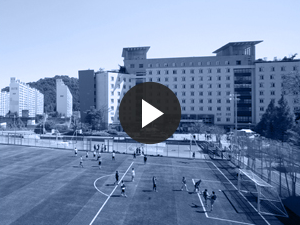
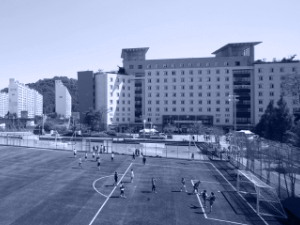
test

diff --git a/02hangukUni/css/style.css b/02hangukUni/css/style.css
@@ -27,26 +27,73 @@ nav.menu a{display: block;padding: 0 25px;line-height: 120px;font-size:18px;colo
 
 /*content*/
 #content{background:url(../images/bg.png) no-repeat;background-size:cover;}
-#content>.main_wrap{width: 1200px;height: 1800px;margin:0 auto;padding: 100px 0;position: relative;}
+#content>.main_wrap{width: 1200px;margin:0 auto;padding: 80px 0;position: relative;}
+#content .top_wrap{width: 1200px;height: 100px;margin-bottom:120px;}
 #content .text{position: absolute;float: left;}
 #content ul.image{width: 451px;float: right;}
 #content ul.image>li{float: left;padding:0 0 0 17.5px;}
 #content ul.image>li>a{float: left;display: block;color:white;}
 #content ul.image>li>a>p{text-align: center;}
-.section_wrap{width: 1200px;background-color:pink;margin: 0 auto;position: absolute;top: 350px;}
+.section_wrap{width: 1200px;margin: 0 auto;margin-bottom: 20px;}
 .section_wrap>ul{}
 .section_wrap>ul>li{width: 25%;height: 225px;float: left;}
-.section_wrap>ul>li>img{width: 901px;height: 450px;}
+.section_wrap>ul>li>img{width: 900px;height: 450px;}
 .section_wrap>ul>li:nth-child(1){width: 75%;height: 450px;}
-.section_wrap>ul>li:nth-child(2){background-image: url(../images/ph02.png);width: 25%;height: 450px;}
-.section_wrap>ul>li:nth-child(3){background-image: url(../images/ph03.png);}
-.section_wrap>ul>li:nth-child(4){}
+.section_wrap>ul>li:nth-child(2){/*background-image: url(../images/ph02.png);*/width: 25%;height: 450px;}
+.section_wrap>ul>li:nth-child(3){background-color: #00163b;/*background-image: url(../images/ph03.png);*/}
+.section_wrap>ul>li:nth-child(4){background-color: #1651b7;}
 .section_wrap>ul>li:nth-child(5){background-image: url(../images/ph04.png);}
-.section_wrap>ul>li:nth-child(6){background-image: url(../images/ph005.png);}
-.section_wrap>ul>li:nth-child(7){background-image: url(../images/ph06.png);}
-.section_wrap>ul>li:nth-child(8){background-image: url(../images/ph07.png);width: 75%;}
-.slider_wrapper .prev_btn{position: absolute;top: 180px; left: 845px;}
-.slider_wrapper .next_btn{position: absolute;top: 180px;}
+.section_wrap>ul>li:nth-child(6){/*background-image: url(../images/ph005.png);*/}
+.section_wrap>ul>li:nth-child(7){}
+.section_wrap>ul>li:nth-child(8){width: 75%;}
+/*content sub*/
+.sub_slide{width: 1200px;height: 60px;position: absolute;margin-bottom: 10px;position: relative;}
+.subb{width: 299px;height: 60px;background-color:white;position: absolute;}
+.subb>h3{float: left;line-height: 60px;padding: 0 30px;color:#00173d; }
+.subb>span{line-height: 60px;}
+.subb_slide{width: 899px;height: 60px;position: absolute;right: 0;line-height: 60px;background-color:white;}
+.subb_slide>ul.slider02{}
+.slider02>li{}
+.slider02>li>h4{float: left;}
+
+.img_wrapper{position: relative;}
+.img_wrapper>ul{}
+.img_wrapper>ul>li{}
+.img_wrapper>ul>li>img{display: block;}
+.img_wrapper>ul>li>.img01{position: absolute;z-index:1;transform:scale(1);}
+.img_wrapper>ul>li>.img01:hover{transform:scale(1.2);}
+.img_wrapper>ul>li>.img02{position: absolute;top: 0;z-index:2;}
+.img_wrapper>ul>li>a>.img03{position: absolute;top: 340px;right: 90px;z-index:3;}
+
+.img_wrapper>ul>li>img{}
+.img_wrapper>ul>li>img{}
+/*content3*/
+.link{}
+.link>h2{color:white;margin-left:20px;margin-top: 20px;}
+.link ul{}
+.link .link_wr{position: relative;}
+.link ul>li{float: left;width: 81px;/*height: 65px;*/}
+.link ul>li>a{display: block;margin: 32px -13px ;padding-left:50px ;}
+.link p{display: block;color:white;font-size:12px;text-align: center;padding-left:4px;}
+/*content3end*/
+
+/*content6*/
+
+.cam{}
+.overlay{}
+.overlay>.title{}
+.cam >h3{color:white;}
+/*content6 end*/ 
+/*content1*/
+.slider_wrapper .prev_btn{position: absolute;top: 520px; left: 845px;}
+.slider_wrapper .next_btn{position: absolute;top: 520px;}
+/*content1 end*/
+
+/*content7*/
+
+.play{position: absolute;left: 120px;bottom: 250px;}
+/*content7*/
+
 
 
 .bx-wrapper {
@@ -56,14 +103,29 @@ nav.menu a{display: block;padding: 0 25px;line-height: 120px;font-size:18px;colo
      border:0 none; 
      background: #fff; 
 }
+.bx-wrapper .bx-pager.bx-default-pager a {
+    background: #666;
+    text-indent: -9999px;
+    display: block;
+    width: 15px;
+    height: 15px;
+    margin: -230px 15px -0px -1px;
+     outline: 0; 
+    -moz-border-radius: 5px;
+    -webkit-border-radius: 5px;
+    border-radius: 10px;
+}
+.bx-wrapper .bx-pager.bx-default-pager a:hover, .bx-wrapper .bx-pager.bx-default-pager a.active, .bx-wrapper .bx-pager.bx-default-pager a:focus {
+    background: #f74237;}
+    .bx-wrapper .bx-pager, .bx-wrapper .bx-controls-auto {position: absolute;bottom: -30px;width: 180%;}
 /*footer*/
-#footer_wrap{}
-#footer_wrap>.footer1{}
+#footer_wrap{width: 1200px;margin: 0 auto;}
+#footer_wrap>.footer1{height: 40px;padding: 27px 0;}
 #footer_wrap>.footer1>.footer01{}
 #footer_wrap>.footer1>.footer01>ul{}
-#footer_wrap>.footer1>.footer01>ul>li{}
-#footer_wrap>.footer1>.footer01>ul>li>h5>a{}
-#footer_wrap>.footer1>.footer01>ul>li>h5>a{}
+#footer_wrap>.footer1>.footer01>ul>li{float: left;text-align: center;border-right: 1px solid#444444;margin-right: 20px;}
+#footer_wrap>.footer1>.footer01>ul>li:last-child{border-right:none;}
+#footer_wrap>.footer1>.footer01>ul>li>h5>a{display: block;padding-right: 20px;color:#444444;}
 #footer_wrap>.footer2{}
-address{}
+address{font-style:normal;color:#888888;padding: 15px 0;line-height: 25px;font-size:12px; }
 address>p{}

diff --git a/02hangukUni/index.html b/02hangukUni/index.html
@@ -12,7 +12,7 @@
 	<script>
 		$(document).ready(function(){
 			var myslider =$('.slider').bxSlider({
-				controls:false,pagerCustom:'.bx-pager'
+				auto:true,controls:false,pagerCustom:'.bx-pager'
 			});
 			$('.next_btn').click(function(){
 				myslider.goToPrevSlide();
@@ -24,9 +24,12 @@
 			});
 
 			$('.slider01').bxSlider({
-				controls:false,pagerCustom:'.bx-pager'
+				controls:false
 			});
-
+			$('.slider02').bxSlider({
+				mode:'vertical',
+				controls:false,touchEnabled:false,pager:false
+			});
 
 
 		});
@@ -75,6 +78,7 @@
 	<!-- content start -->
 	<div id="content" class="clearfix">
 		<div class="main_wrap">
+			<div class="top_wrap">
 		<div class="text"><img src="images/main_t.png" alt=""></div>
 		<ul class="image clearfix">
 			<li><a href="#"><img src="images/m01.png" alt="입학절차안내"><p>입학절차안내</p></a></li>
@@ -82,36 +86,111 @@
 			<li><a href="#"><img src="images/m03.png" alt="장학제도"><p>장학제도</p></a></li>
 			<li><a href="#"><img src="images/m04.png" alt="증명서발급"><p>증명서발급</p></a></li>	
 		</ul>
-
+		</div>
 		
 		<!-- content section start -->
 			<div class="section_wrap">
 			 <ul class="section clearfix">
+			 	<!-- content1 -->
 				<li>
 					<div class="slider_wrapper">
 						<ul class="slider">
 							<li><img src="./images/ph01.png" alt=""></li>
-							<li><img src="./images/ph01.png" alt=""></li>
-							<li><img src="./images/ph01.png" alt=""></li>
+							<li><img src="./images/ph012.png" alt=""></li>
+							<li><img src="./images/ph0123.png" alt=""></li>
 						</ul>
 			<div class="prev_btn"><a href="#"><img src="images/sp_btn.png" alt="prev"></a></div>
 			<div class="next_btn"><a href="#"><img src="images/sn_btn.png" alt="next"></a></div>
+			<div class="bb-pager clearfix">
+				<!-- a[#]*4>{menu} -->
+				<a href="#" data-slide-index="0"></a>
+				<a href="#"data-slide-index="1"></a>
+				<a href="#"data-slide-index="2"></a>
+			</div>
 				</div>
 				</li>
+				<!-- content2 -->
+				<li>
+				<div class="img_wrapper">
+					<ul>
+						<li><img src="./images/ph022.png" alt="" class="img01"></li>
+						<li><img src="./images/ph02_txt.png" alt="" class="img02"></li>
+						<li><a href="#"><img src="./images/m_btn.png" alt="" class="img03"></a></li>
+					</ul>
+				</div>
+				</li>
+				<!-- content3 -->
+				<li>
+					<div class="link">
+					<h2>HOTLINK</h2>
+					<div class="link_wr">
+					<ul class="clearfix">
+							<li><a href="#"><img src="./images/icon01.png" alt=""><p>국제교류센터</p></a></li>
+							<li><a href="#"><img src="./images/icon02.png" alt=""><p>원격지원 시스템</p></a></li>
+							<li><a href="#"><img src="./images/icon03.png" alt=""><p>예산/결산 공고</p></a></li>
+						</ul>	
+					</div>
+					</div>
+				</li>
+				<!-- content4 -->
+				<li>
+					<div class="text">
+						<div class="tx_wr clearfix">
+							<h2>공지사항</h2>
+							<div class="line"></div>
+						</div>
+					</div>
+				</li>
+				<!-- content5 -->
 				<li></li>
-				<li></li>
-				<li></li>
-				<li></li>
-				<li></li>
-				<li></li>
-				<li></li>
+				<!-- content6 -->
+				<li>
+					<div class="cam">
+					<img src="./images/ph005.png" alt="">
+					<div class="overlay">
+						<div class="title">
+							<h3>캠퍼스투어</h3>
+						</div>
+					</div>
+				</div>
+				</li>
+				<!-- content7 -->
+				<li>
+					<div class="video"><img src="./images/ph06.png" alt="">
+					<div class="play"><a href="#"><img src="./images/play_btn.png" alt=""></a></div>
+				</div>
+				</li>
+				<!-- content8 -->
+				<li>
+					<div class="slider_wrapper clearfix">
+						<ul class="slider01">
+							<li><a href="#"><img src="./images/ph07.png" alt=""></a></li>
+							<li><a href=""><img src="./images/ph07.png" alt=""></a></li>
+							<li><a href=""><img src="./images/ph07.png" alt=""></a></li>
+							<li><a href=""><img src="./images/ph07.png" alt=""></a></li>
+						</ul>
+				</div>
+			</li>
 			</ul>
 			</div>
+			<div class="sub_slide clearfix">
+			<div class="subb">
+				<h3>학사일정</h3>
+				<span>2016 07</span>
+			</div>
+			<div class="subb_slide">
+			<ul class="slider02">
+				<li><h4>2016-1학기 성적 열람 및 상담신청</h4> <p>성적열람및 상담신청은 본인이 수강한 교과목 설문조사를 모두 마친 후 확인이...</p></li>
+				<li><h4>2016-1학기 성적 열람 및 상담신청</h4> <p>성적열람및 상담신청은 본인이 수강한 교과목 설문조사를 모두 마친 후 확인이...</p></li>
+			</ul>
+		</div>
+		</div>
+
 		</div>
 
 		</div>
 		<!-- content section end -->
-		<div class="sub_slide"></div>
+		
 	</div>
 	<!-- content end -->
 
